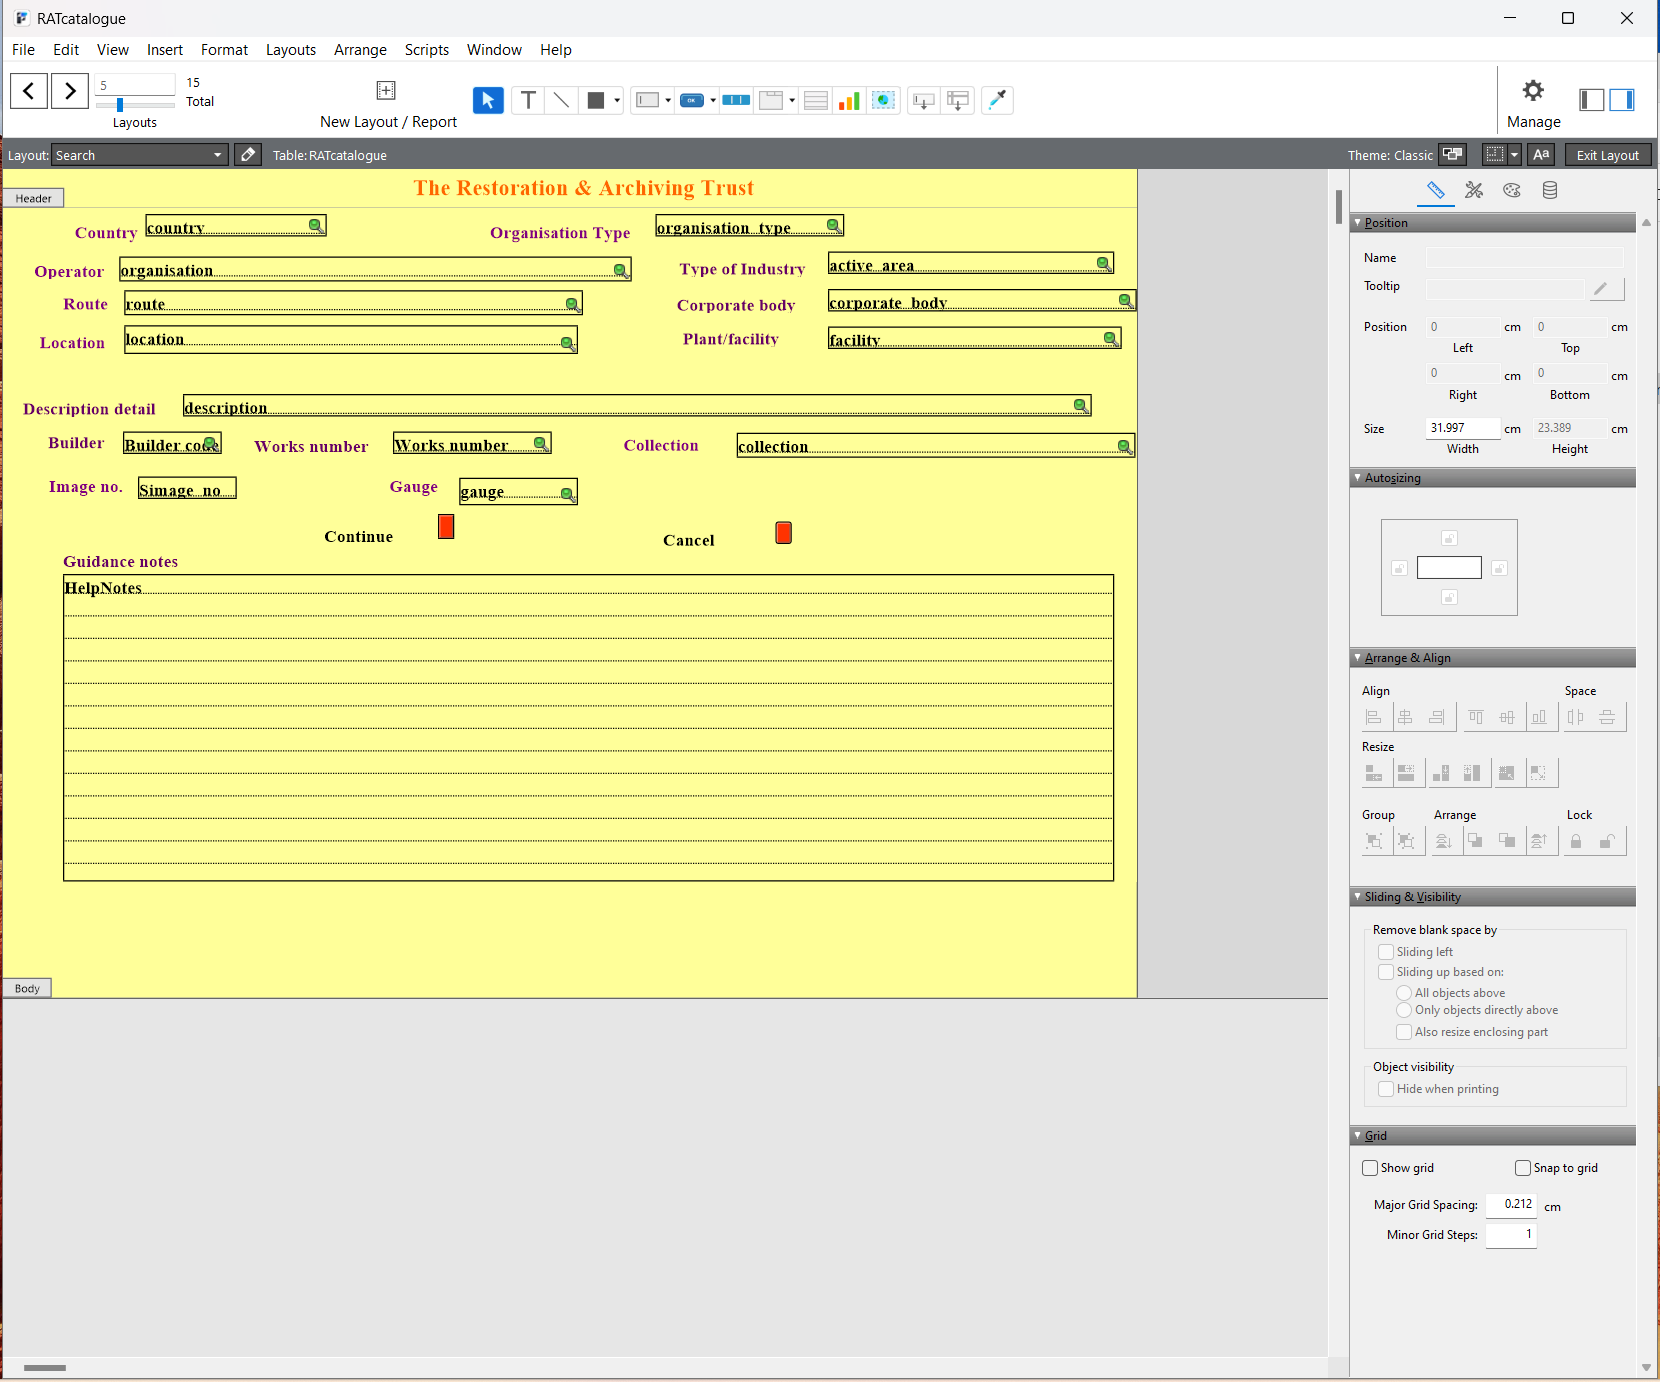
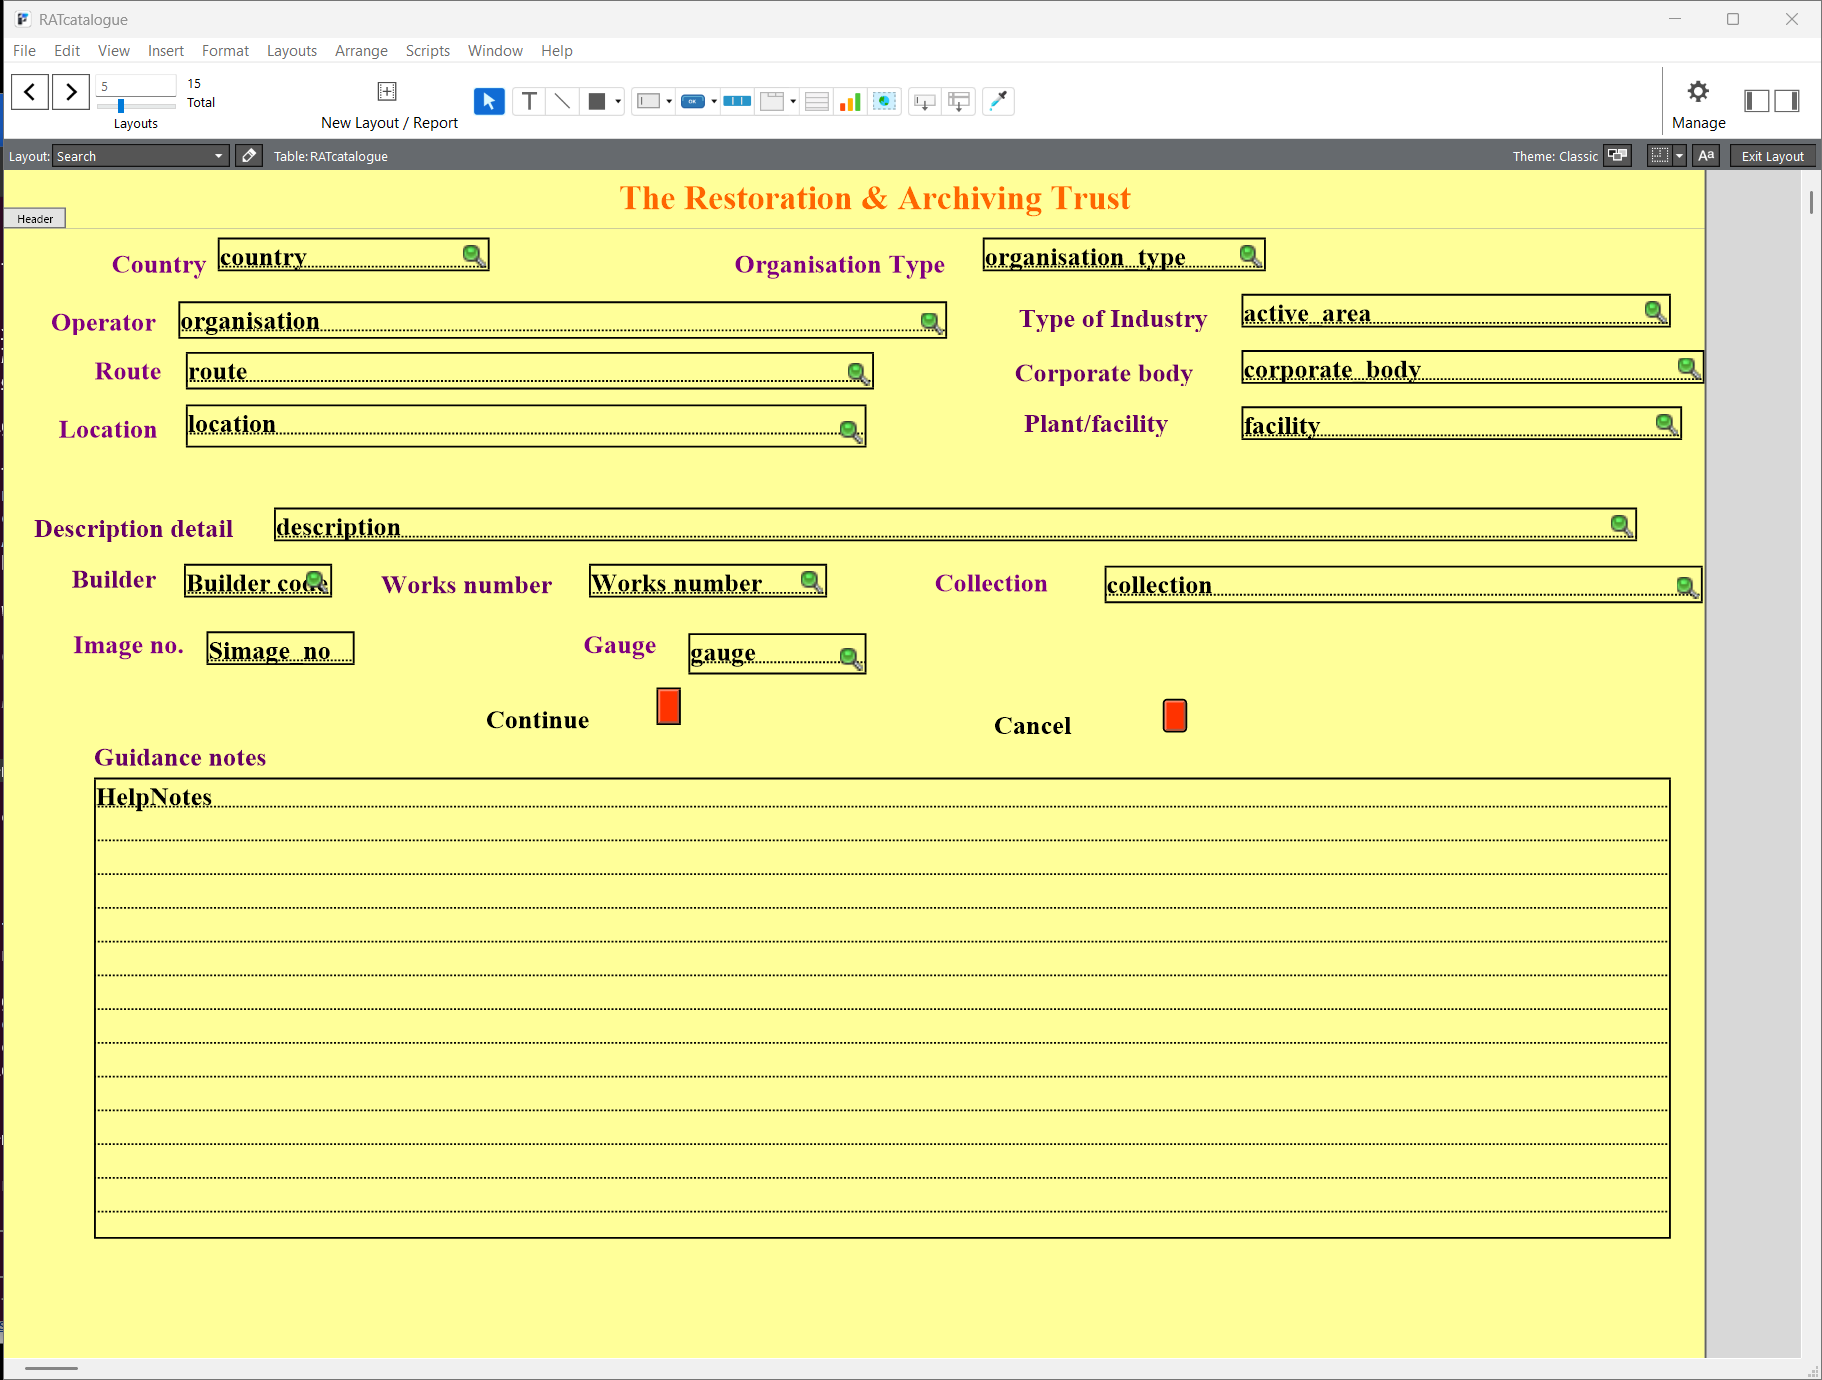
Document real FileMaker layouts: S-prefix mystery, adjacency pattern, 2 scope gaps
User shared the actual FileMaker Pro data-entry screens (Search, Common
carrier, Industrial, RATcollections, RATroutes, RATbuilders), letting
several previously-unclear things get resolved with real evidence rather
than guesswork:

- The mysterious S-prefixed ratcatalogue columns (Scountry, Simage_no,
  etc.) are FileMaker's own Search-layout criteria storage, not real
  data -- already correctly excluded from rat.catalog, just undocumented.
- Works number/Year built sit immediately adjacent on both the Common
  carrier and Industrial layouts (not a one-off) -- plausible,
  unconfirmed explanation for the cmuk0089 runaway-paste case found
  earlier this session.
- Two real scope gaps: rat_migration.ratcollections/ratroutes already
  extract several columns (photographer/print_sales/internet_use/
  publications_use/contact/remarks/accession_number for collections;
  organisation/country/remarks for routes) that rat.collection/rat.route
  never migrate. Deliberately NOT acted on -- user's call, document only.
  Flagged the PII angle (owner/donor/contact likely real people's
  details) for whenever this does get picked up.

Also saved the 4 newly-shared screenshots (search/ratcollections/
ratroutes/industrial) into FileMakerPro_source_details/
RAT_Original_App_Images/ for durability -- they'd only existed in this
chat's image cache otherwise. rat_form__search.png already existed
(older capture, same content, properties panel open) -- confirmed no
[…]

diff --git a/CLAUDE.md b/CLAUDE.md
@@ -367,6 +367,40 @@ changing a value in transit, before assuming either.
   Session 7 fixed on `oci`; not reconciled against the cloud target. 57,187 of those rows resolve to the
   `'UNK'` sentinel builder (real data — many trains genuinely have no resolvable builder code, but do carry
   real `plant_code`/`works_number`/`year_built`); this is now stable across re-runs, not growing.
+- **The real FileMaker data-entry layouts, from the user directly (Session 23), resolve several
+  previously-unclear questions:**
+  - **The mysterious `S`-prefixed `ratcatalogue` columns** (`Scountry`, `Sorganisation`, `Simage_no`,
+    `Sgauge`, `Sactive_area`, `Sfacility`, `Scorporate_body`, `Scollection`, `Sbuilder code`,
+    `Sworks number`, `Sroute`, `Slocation`) **are FileMaker's own "Search" layout criteria-storage
+    fields, not real catalog data** — confirmed against the actual Search layout screenshot, which
+    shows fields like `Simage_no`/`active_area` mapped 1:1 to these. Already correctly excluded from
+    `rat.catalog`'s column list; nothing to fix, just previously undocumented.
+  - **`Works number`/`Year built` are entered on the "Common carrier" and "Industrial" `RATcatalogue`
+    layouts** (not the main "Data entry" one, and not the separate `RATbuilders` layout, which is
+    only the builder *master list* editor, not a per-photo entry point) — on both, `Works no.` and
+    `Year built` sit immediately adjacent on the same row. Plausible (not confirmed) explanation for
+    the `cmuk0089` runaway-paste case (Session 23, "Loader status" above): a paste meant for
+    `Description` (further down the same screen) landing in `Year built` instead. The same
+    adjacency appears on both layouts, so it's a systemic form-design pattern, not a one-off.
+  - **Two real scope gaps, found by comparing the `RATcollections`/`RATroutes` layouts against what
+    actually lands in `rat.*`:** `rat_migration.ratcollections` already carries `photographer`,
+    `print_sales`, `internet_use`, `publications_use`, `contact`, `remarks`, `accession_number` —
+    none of which `rat.collection` has a column for (today just `name`/`owner`/`donor`/
+    `storage_location`). `rat_migration.ratroutes` already carries `organisation` ("Owning
+    organisation"), `country`, `remarks` — `rat.route` has none of them (today just `name`/
+    `start_location_id`/`end_location_id`). Both are genuinely extracted by Stage 1 already, just
+    never migrated by Stage 2. **Deliberately not acted on** — user's call: document only, don't
+    add the columns/migration logic yet. Worth flagging if picked up later: `rat.collection`'s
+    `owner`/`donor`/`contact` likely hold real people's names/contact details (donors/collectors,
+    not archive subjects) — the same kind of non-public-by-default consideration already applied to
+    `catalog.valuation`/`owners_ref` in `anon`'s grants (see `picaloco_web` Session 14).
+  - Full layout screenshots referenced above live in
+    `FileMakerPro_source_details/RAT_Original_App_Images/` (`rat_form__common_carrier.png`,
+    `rat_form__industrial.png`, `rat_form__ratcollections.png`, `rat_form__ratroutes.png`,
+    `rat_form__search.png` — the last four saved to disk this session, weren't there before) plus
+    `rat_orig_app_details.txt` (the main
+    "Data entry" layout's documented tab order). See `devlog/worksheet.md` Session 23 for the
+    conversation that produced these.
 
 ---
 
